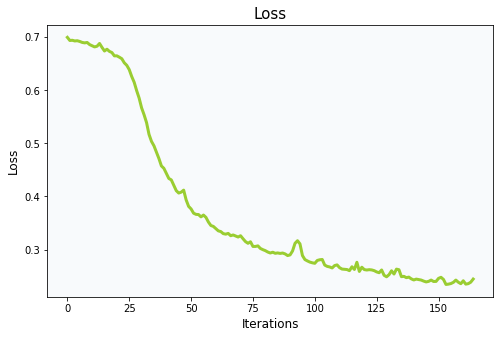
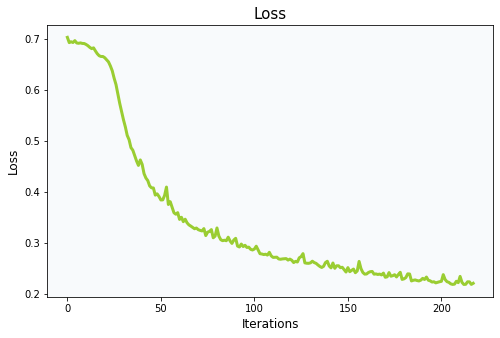
Blog update - Sat 17 Apr 2021 04:40:58 PM CEST

diff --git a/post/building_a_neural_network_from_scratch/index.html b/post/building_a_neural_network_from_scratch/index.html
@@ -302,7 +302,7 @@ ITERATIONS = <span style="color:#b452cd">80000</span>
     num_iter = ITERATIONS)
 </code></pre></div><h3 id="fit-the-model-over-training-set--and-finally-evaluate-our-model-">Fit the model over training set &hellip; and finally evaluate our model !</h3>
 <div class="highlight"><pre style="background-color:#eed;-moz-tab-size:4;-o-tab-size:4;tab-size:4"><code class="language-python" data-lang="python">loss, accuracy = ANN_model.fit(X_train, y_train)
-</code></pre></div><pre><code>100%|██████████| 80000/80000 [00:32&lt;00:00, 2450.82it/s]
+</code></pre></div><pre><code>100%|██████████| 80000/80000 [00:32&lt;00:00, 2473.67it/s]
 </code></pre>
 <h2 id="5model-evaluationa-idevaluationa">5.Model evaluation<!-- raw HTML omitted --><!-- raw HTML omitted --></h2>
 <h3 id="lets-have-a-look-on-our-accuracy-and-loss-evolution">Let&rsquo;s have a look on our accuracy and loss evolution</h3>
@@ -405,18 +405,18 @@ y_test_pred = MLP_model.predict(X_test)
 <span style="color:#8b008b;font-weight:bold">print</span>(<span style="color:#cd5555">&#34;Training Accuracy: {0:.2f}&#34;</span>.format(accuracy_score(y_train, y_train_pred)))
 <span style="color:#8b008b;font-weight:bold">print</span>(<span style="color:#cd5555">&#34;Testing Accuracy: {0:.2f}&#34;</span>.format(accuracy_score(y_test, y_test_pred)))
 </code></pre></div><pre><code>Training Accuracy: 0.92
-Testing Accuracy: 0.91
+Testing Accuracy: 0.92
 </code></pre>
 <div class="highlight"><pre style="background-color:#eed;-moz-tab-size:4;-o-tab-size:4;tab-size:4"><code class="language-python" data-lang="python">report = classification_report(y_test, y_test_pred)
 <span style="color:#8b008b;font-weight:bold">print</span>(report)
 </code></pre></div><pre><code>              precision    recall  f1-score   support
 
-           0       0.97      0.85      0.91       103
-           1       0.86      0.97      0.91        97
+           0       0.91      0.92      0.92       103
+           1       0.92      0.91      0.91        97
 
-    accuracy                           0.91       200
-   macro avg       0.91      0.91      0.91       200
-weighted avg       0.92      0.91      0.91       200
+    accuracy                           0.92       200
+   macro avg       0.92      0.91      0.91       200
+weighted avg       0.92      0.92      0.91       200
 </code></pre>
 <div class="highlight"><pre style="background-color:#eed;-moz-tab-size:4;-o-tab-size:4;tab-size:4"><code class="language-python" data-lang="python">cf_matrix = confusion_matrix(y_test, y_test_pred)
 
@@ -442,23 +442,33 @@ plt.show()
 <span style="color:#8b008b;font-weight:bold">import</span> <span style="color:#008b45;text-decoration:underline">pandas</span> <span style="color:#8b008b;font-weight:bold">as</span> <span style="color:#008b45;text-decoration:underline">pd</span>
 results = {
     <span style="color:#cd5555">&#39;Model&#39;</span>: [<span style="color:#cd5555">&#34;Custom AnN&#34;</span>, <span style="color:#cd5555">&#39;Sklearn ANN&#39;</span>],
-    <span style="color:#cd5555">&#39;f1&#39;</span>: [<span style="color:#b452cd">91</span>, <span style="color:#b452cd">91</span>],
+    <span style="color:#cd5555">&#39;f1&#39;</span>: [<span style="color:#b452cd">91</span>, <span style="color:#b452cd">91.5</span>],
     <span style="color:#cd5555">&#39;precision&#39;</span>: [<span style="color:#b452cd">91.5</span>, <span style="color:#b452cd">91.5</span>],
-    <span style="color:#cd5555">&#39;recall&#39;</span>: [<span style="color:#b452cd">91</span>, <span style="color:#b452cd">91</span>],
-    <span style="color:#cd5555">&#39;err Type I&#39;</span>: [<span style="color:#cd5555">&#39;3.5%&#39;</span>, <span style="color:#cd5555">&#39;7.5%&#39;</span>],
-    <span style="color:#cd5555">&#39;err Type II&#39;</span>: [<span style="color:#cd5555">&#39;5.5%&#39;</span>, <span style="color:#cd5555">&#39;1.5%&#39;</span>],
-    <span style="color:#cd5555">&#39;lear iter&#39;</span>: [<span style="color:#b452cd">80000</span>, <span style="color:#b452cd">200</span>],
-    <span style="color:#cd5555">&#39;final loss&#39;</span>: [<span style="color:#658b00">round</span>(loss[-<span style="color:#b452cd">1</span>],<span style="color:#b452cd">3</span>), <span style="color:#658b00">round</span>(MLP_model.loss_curve_[-<span style="color:#b452cd">1</span>], <span style="color:#b452cd">3</span>)]}
-
+    <span style="color:#cd5555">&#39;recall&#39;</span>: [<span style="color:#b452cd">91</span>, <span style="color:#b452cd">91.5</span>],
+    <span style="color:#cd5555">&#39;err Type I&#39;</span>: [<span style="color:#cd5555">&#39;3.5%&#39;</span>, <span style="color:#cd5555">&#39;4.0%&#39;</span>],
+    <span style="color:#cd5555">&#39;err Type II&#39;</span>: [<span style="color:#cd5555">&#39;5.5%&#39;</span>, <span style="color:#cd5555">&#39;4.5%&#39;</span>]}
 
 df_results = pd.DataFrame(data=results).set_index(<span style="color:#cd5555">&#39;Model&#39;</span>)
 <span style="color:#8b008b;font-weight:bold">print</span>(df_results.to_markdown())
-</code></pre></div><pre><code>| Model       |   f1 |   precision |   recall | err Type I   | err Type II   |   lear iter |   final loss |
-|:------------|-----:|------------:|---------:|:-------------|:--------------|------------:|-------------:|
-| Custom AnN  |   91 |        91.5 |       91 | 3.5%         | 5.5%          |       80000 |        0.198 |
-| Sklearn ANN |   91 |        91.5 |       91 | 7.5%         | 1.5%          |         200 |        0.244 |
+</code></pre></div><pre><code>| Model       |   f1 |   precision |   recall | err Type I   | err Type II   |
+|:------------|-----:|------------:|---------:|:-------------|:--------------|
+| Custom AnN  | 91   |        91.5 |     91   | 3.5%         | 5.5%          |
+| Sklearn ANN | 91.5 |        91.5 |     91.5 | 4.0%         | 4.5%          |
 </code></pre>
-<p>Very similar results are observed for both models, although the custom model does more Type II errors while the Sklearn model prefers type I errors. In addition, the Sklearn model is far better optimized in term of convergence.</p>
+<p>Very similar results are observed for both models.</p>
+<div class="highlight"><pre style="background-color:#eed;-moz-tab-size:4;-o-tab-size:4;tab-size:4"><code class="language-python" data-lang="python">learning = {
+    <span style="color:#cd5555">&#39;Model&#39;</span>: [<span style="color:#cd5555">&#34;Custom AnN&#34;</span>, <span style="color:#cd5555">&#39;Sklearn ANN&#39;</span>],
+    <span style="color:#cd5555">&#39;lear iter&#39;</span>: [<span style="color:#b452cd">80000</span>, MLP_model.loss_curve_.index(MLP_model.loss_curve_[-<span style="color:#b452cd">1</span>])],
+    <span style="color:#cd5555">&#39;final loss&#39;</span>: [<span style="color:#658b00">round</span>(loss[-<span style="color:#b452cd">1</span>],<span style="color:#b452cd">3</span>), <span style="color:#658b00">round</span>(MLP_model.loss_curve_[-<span style="color:#b452cd">1</span>], <span style="color:#b452cd">3</span>)]}
+
+df_learning = pd.DataFrame(data=learning).set_index(<span style="color:#cd5555">&#39;Model&#39;</span>)
+<span style="color:#8b008b;font-weight:bold">print</span>(df_learning.to_markdown())
+</code></pre></div><pre><code>| Model       |   lear iter |   final loss |
+|:------------|------------:|-------------:|
+| Custom AnN  |       80000 |        0.198 |
+| Sklearn ANN |         217 |        0.221 |
+</code></pre>
+<p>On the other hand, the Sklearn model is a lot more faster in term of convergence, as it uses a faster and ADAM  optimizer.</p>
 <p><strong>Now we have a custom Artificial Neural Network, built from scratch, with great classification capabilities for all simple Xor-like datasets.<!-- raw HTML omitted --></strong></p>
 <p><strong>Compared to some prebuilt models that already exists in Sklearn library, this custom model is not so fast and optimized&hellip; but that is a funny and good start exercise for a better background comprehension of artificial neural networks.</strong></p>
 <p><strong>It is also a starting point from which we can improve and adapt this model to new issues! Ex: by adding more layers, implementing more robust optimizers, etc &hellip;</strong></p>
